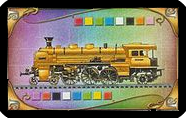
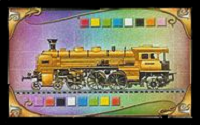
GraphicsPlayer train cards

diff --git a/src/graphics/GraphicsPlayer.java b/src/graphics/GraphicsPlayer.java
@@ -1,7 +1,10 @@
 package graphics;
 
 import java.awt.Graphics2D;
-import java.awt.Rectangle;
+import java.awt.Image;
+import java.awt.geom.AffineTransform;
+import java.awt.geom.Point2D;
+import java.awt.geom.Point2D.Float;
 import java.awt.image.BufferedImage;
 import java.io.File;
 import java.io.IOException;
@@ -34,7 +37,7 @@ public class GraphicsPlayer implements Graphics
 			black = ImageIO.read(new File("game_files\\cards\\black_train_card.jpg"));
 			red = ImageIO.read(new File("game_files\\cards\\red_train_card.jpg"));
 			green = ImageIO.read(new File("game_files\\cards\\green_train_card.jpg"));
-			wild = ImageIO.read(new File("game_files\\cards\\locomotive_train_card.jpg"));
+			wild = ImageIO.read(new File("game_files\\cards\\locomotive_train_card.png"));
 		} catch (IOException e)
 		{
 		}
@@ -44,34 +47,12 @@ public class GraphicsPlayer implements Graphics
 	{
 		tickets = new ArrayList<GraphicsTicket>();
 		hand = new ArrayList<String>();
+		
+		tickets.add(new GraphicsTicket(new Point2D.Float(850,800), 10, "Your house", "School"));
+		
 		hand.add("Red");
-		hand.add("Red");
-//		hand.add("Red");
-//		hand.add("Red");
-//		hand.add("Red");
-//		hand.add("Red");
-//		hand.add("Red");
-//		hand.add("Pink");
-//		hand.add("Red");
-//		hand.add("Red");
-//		hand.add("Red");
-//		hand.add("Red");
-//		hand.add("Red");
-//		hand.add("Red");
-//		hand.add("Black");
-//		hand.add("Red");		
-//		hand.add("Blue");
-//		hand.add("Red");
-//		hand.add("Pink");
-//		hand.add("Red");
-//		hand.add("Red");
-//		hand.add("Red");
-//		hand.add("Red");
-//		hand.add("Red");
-//		hand.add("Red");
-//		hand.add("Black");
-//		hand.add("Red");		
-//		hand.add("Blue");
+		hand.add("Blue");
+		hand.add("Black");
 	}
 
 //	public GraphicsPlayer(ViewEvent event)
@@ -86,14 +67,37 @@ public class GraphicsPlayer implements Graphics
 
 	public void draw(Graphics2D g)
 	{
+		
 //		g.fillRect(0,0,1000,1000);
 		int moving = 0;
 		for (GraphicsTicket ticket : tickets)
 			ticket.draw(g);
+		AffineTransform af = new AffineTransform();
+		af.translate(150, 800);
+		af.rotate(Math.toRadians(90));
 		for (int i = 0; i < hand.size(); i++)
 		{
 			moving = 800 / hand.size() * i;
-			g.draw(new Rectangle(100 + moving, 750, 125, 200));
+			af.translate(0,-moving);
+			g.drawImage(color2Image(hand.get(i)), af, null);
+			af.translate(0, moving);
+		}
+	}
+
+	private Image color2Image(String color)
+	{
+		switch(color)
+		{
+		case("Pink"): return pink;
+		case("White"): return white;
+		case("Blue"): return blue;
+		case("Yellow"): return yellow;
+		case("Orange"): return orange;
+		case("Black"): return black;
+		case("Red"): return red;
+		case("Green"): return green;
+		case("Wild"): return wild;
+		default: return null;
 		}
 	}
 }

diff --git a/src/unit_test/GraphicsPlayerTest.java b/src/unit_test/GraphicsPlayerTest.java
@@ -1,5 +1,7 @@
 package unit_test;
 
+import java.awt.BasicStroke;
+import java.awt.Color;
 import java.awt.Graphics;
 import java.awt.Graphics2D;
 import java.awt.MouseInfo;
@@ -33,7 +35,7 @@ public class GraphicsPlayerTest extends JPanel implements MouseListener
 		window.setVisible(true);
 		window.add(test);
 		window.addMouseListener(test);
-
+		window.setResizable(false);
 		window.getContentPane().setCursor(Toolkit.getDefaultToolkit().createCustomCursor(
 				new BufferedImage(16, 16, BufferedImage.TYPE_INT_ARGB), new Point(0, 0), "blank cursor"));
 
@@ -53,14 +55,18 @@ public class GraphicsPlayerTest extends JPanel implements MouseListener
 		super.paintComponent(fakeG);
 		Graphics2D g = (Graphics2D) fakeG;
 		
-		double x = MouseInfo.getPointerInfo().getLocation().getX() - window.getLocationOnScreen().x;
-		double y = MouseInfo.getPointerInfo().getLocation().getY() - window.getLocationOnScreen().y;
-		g.draw(new Line2D.Double(x - 5, y, x + 5, y));
-		g.draw(new Line2D.Double(x, y - 5, x, y + 5));
-		
 		graph.draw(g);
 		
 		player.draw(g);
+		
+		double x = MouseInfo.getPointerInfo().getLocation().getX() - window.getLocationOnScreen().x;
+		double y = MouseInfo.getPointerInfo().getLocation().getY() - window.getLocationOnScreen().y;
+		g.setStroke(new BasicStroke(4));
+		g.setColor(new Color(129, 9, 255));
+		g.draw(new Line2D.Double(x - 5, y, x + 5, y));
+		g.draw(new Line2D.Double(x, y - 5, x, y + 5));
+		g.setStroke(new BasicStroke(3));
+		g.setColor(Color.BLACK);
 	}
 
 	@Override

diff --git a/src/graphics/GraphicsBoard.java b/src/graphics/GraphicsBoard.java
@@ -1,8 +1,12 @@
 package graphics;
 
 import java.awt.Graphics2D;
+import java.awt.image.BufferedImage;
+import java.io.File;
+import java.io.IOException;
 import java.util.Stack;
 
+import javax.imageio.ImageIO;
 import javax.swing.JPanel;
 
 public class GraphicsBoard extends JPanel implements View, Graphics
@@ -12,26 +16,37 @@ public class GraphicsBoard extends JPanel implements View, Graphics
 	private GraphicsGraph graph;
 	private GraphicsPlayer player;
 	private String[] visible;
-	
+	private static BufferedImage background;
+
+	static
+	{
+		try
+		{
+			background = ImageIO.read(new File("game_files\\background.jpg"));
+		} catch (IOException e)
+		{
+
+		}
+	}
+
 	public GraphicsBoard(ViewEvent event)
 	{
-		
+
 	}
 
 	@Override
 	public void draw(Graphics2D g)
 	{
-		// TODO Auto-generated method stub
-		
+		g.drawImage(background, 0, 0, 1920, 1080, null);
 	}
-	
+
 //	- listener:PlayerEventListener
 //	- graph:GraphicsGraph
 //	- player:GraphicsPlayer
 //	- tickets:Stack<GraphicsTicket>
 //	- visible:GraphicsString[5]
 //	- deck:Stack<GraphicsString>
-	
+
 //	+ GraphicsBoard()
 //	+ paintComponent(Graphics):void
 //	+ setListener(PlayerEventListener listen):void
